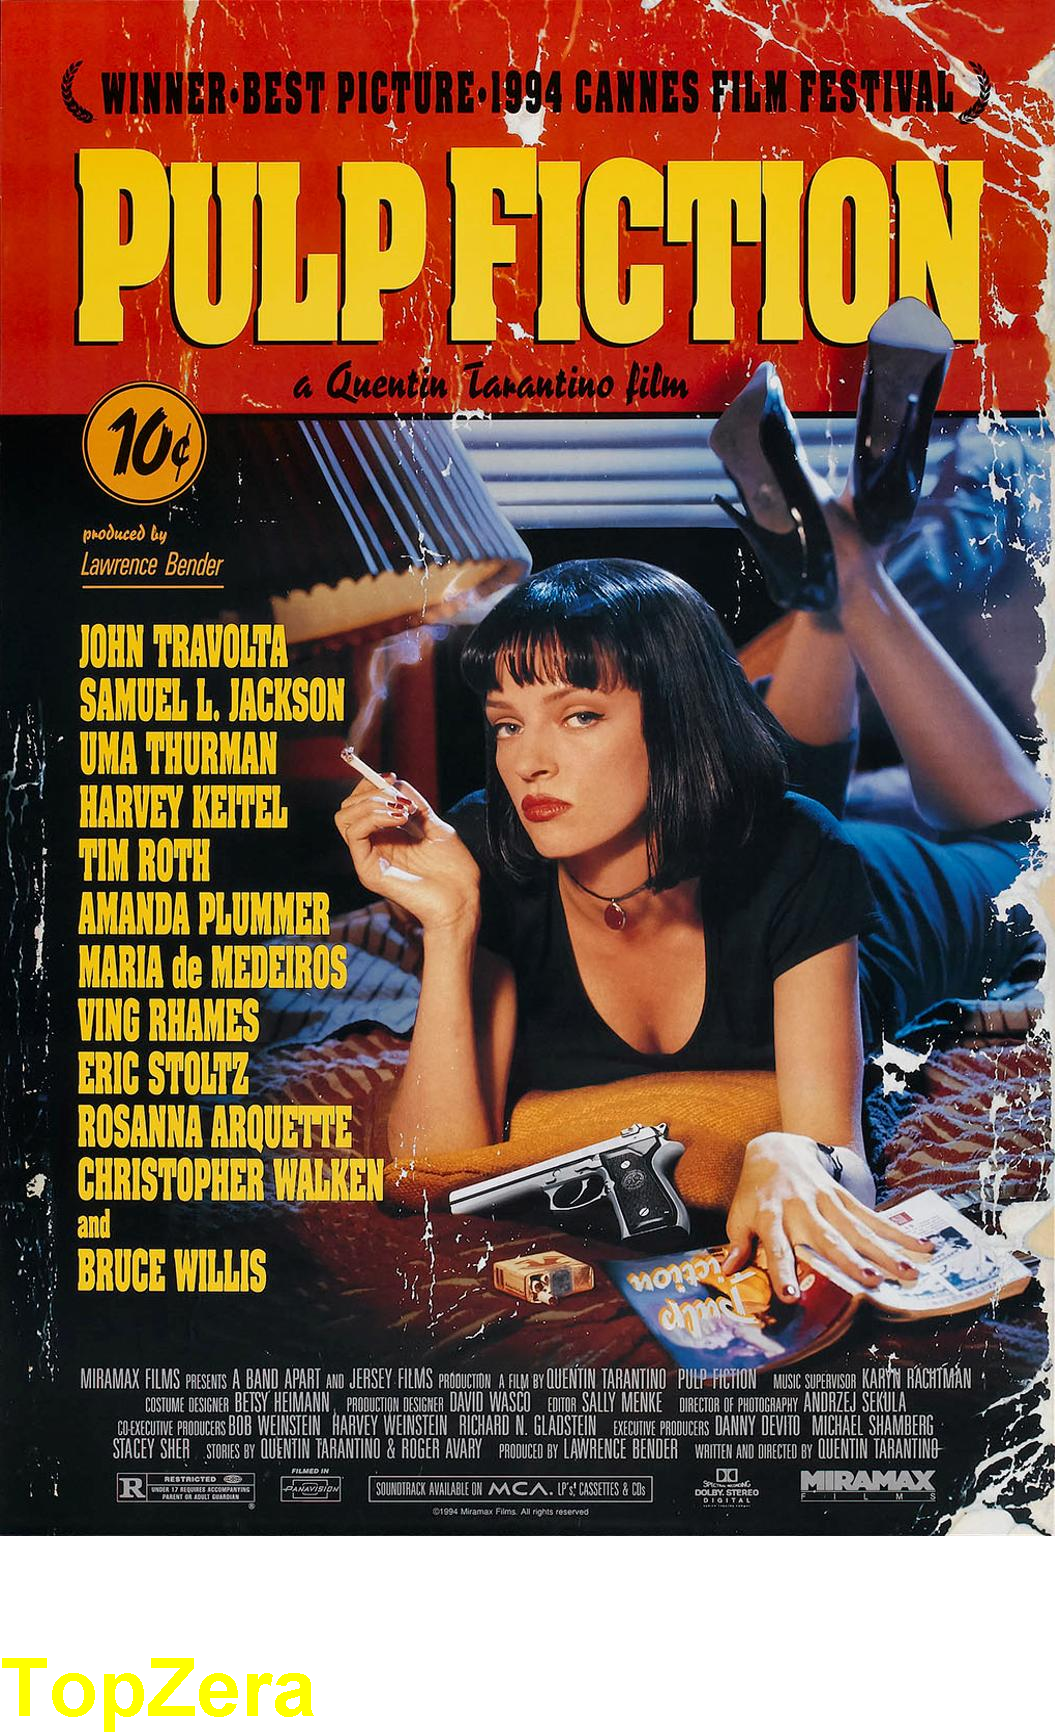
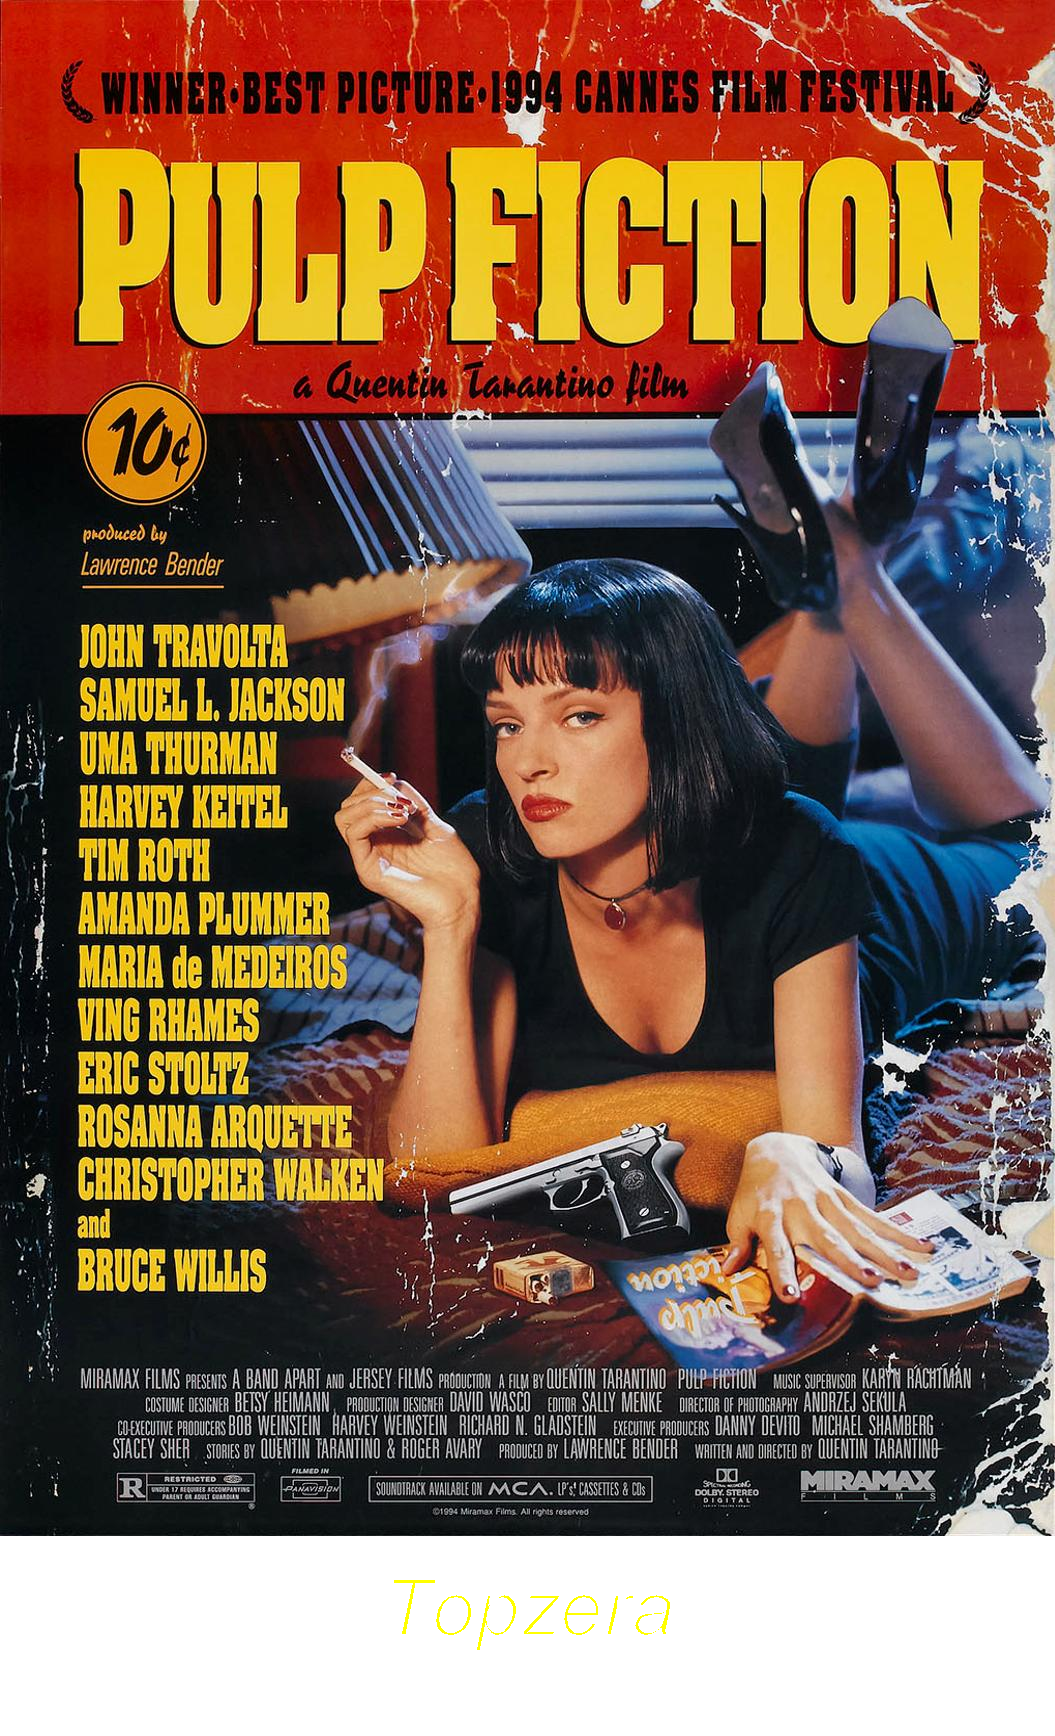
feat: Adiciona contorno no texto e alinha o texto

Changed region(s): [[0.0, 0.9332, 0.3033, 1.0], [0.364, 0.9021, 0.3943, 0.9332]]

diff --git a/MoviesApi/src/StickerCreator.java b/MoviesApi/src/StickerCreator.java
@@ -1,10 +1,16 @@
 import java.awt.Graphics2D;
+import java.awt.Shape;
+import java.awt.font.FontRenderContext;
 import java.awt.image.BufferedImage;
 import java.io.File;
 import java.io.IOException;
 import java.io.InputStream;
 import java.awt.Color;
 import java.awt.Font;
+import java.awt.FontMetrics;
+import java.awt.font.TextLayout;
+import java.awt.geom.AffineTransform;
+import java.awt.BasicStroke;
 
 import javax.imageio.ImageIO;
 
@@ -17,17 +23,37 @@ public class StickerCreator {
         int width = originalImage.getWidth();
         int height = originalImage.getHeight();
         int newHeight = height + 200;
-
         BufferedImage newImage = new BufferedImage(width, newHeight, BufferedImage.TRANSLUCENT);
 
         Graphics2D graphics = (Graphics2D) newImage.getGraphics();
-
         graphics.drawImage(originalImage, 0, 0, null);
 
-        var font = new Font(Font.SANS_SERIF, Font.BOLD, 80);
+        var font = new Font(Font.SANS_SERIF, Font.ITALIC, 80);
         graphics.setFont(font);
         graphics.setColor(Color.YELLOW);
-        graphics.drawString("TopZera", width / 2, newHeight - 100);
+
+        String text = "Topzera";
+        FontMetrics fontMetrics = graphics.getFontMetrics();
+        var stringBounds = fontMetrics.getStringBounds(text, graphics);
+
+        int widthAlignText = width - (width / 2) - (int) stringBounds.getWidth() / 2;
+        int heightAlignText = newHeight - (newHeight - height) / 2;
+
+        graphics.drawString(text, widthAlignText, heightAlignText);
+
+        FontRenderContext fontRenderContext = graphics.getFontRenderContext();
+        var textLayout = new TextLayout(text, font, fontRenderContext);
+
+        Shape outline = textLayout.getOutline(null);
+        AffineTransform transform = graphics.getTransform();
+        transform.translate(widthAlignText, heightAlignText);
+        graphics.setTransform(transform);
+
+        var outlineStroke = new BasicStroke(width * 0.004f);
+        graphics.setStroke(outlineStroke);
+
+        graphics.setColor(Color.WHITE);
+        graphics.draw(outline);
 
         ImageIO.write(newImage, "png", new File("output/" + archiveName.replace(':', '-')));
 
